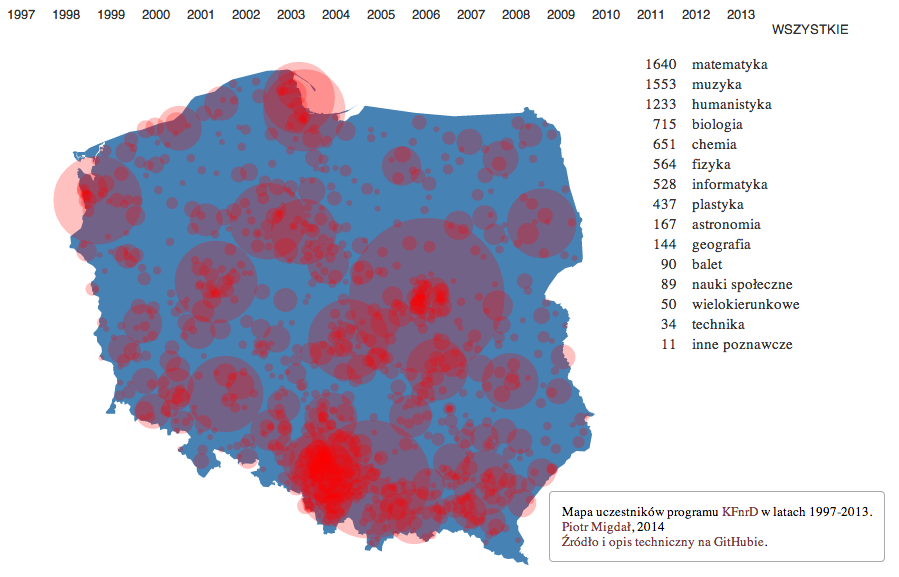
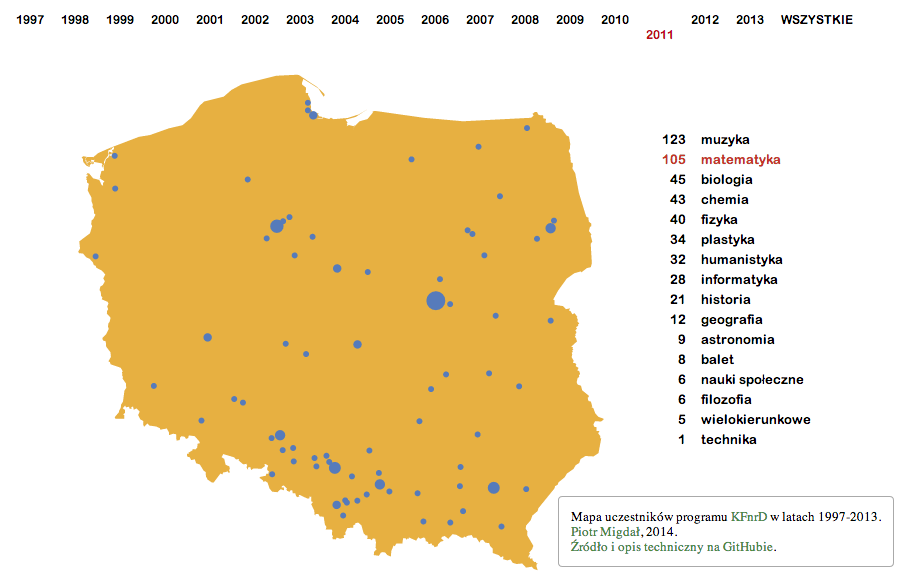
funduszyzacja kolorow i czcionek

diff --git a/mapa.css b/mapa.css
@@ -1,37 +1,40 @@
 .polska {
-  fill: steelblue;
+  fill: #E7B041;
 }
 
 .city {
   /*cursor: crosshair;*/
-  fill: rgba(255, 0, 0, 0.5);
+  fill: #567BBB;
   stroke: rgba(0, 0, 0, 1);
   stroke-width: 0px;
   opacity: 0.4;
 }
 
 .city:hover {
-  stroke-width: 1px;
+  /*stroke-width: 2px;*/
+  fill: #C20D19;
 }
 
 .dziedzina {
   font-family: "Arial Rounded MT Bold", "Helvetica Rounded", Arial, sans-serif;
   font-size: 13px;
-  fill: #333;
+  fill: #000;
   cursor: default;
 }
 
 .dziedzina:hover {
-  fill: #000;
-  stroke: #000;
-  stroke-width: 0.7px;
+  fill: #C63628;
 }
 
 .rok {
-  fill: #333;
-  font-size: 13px;
+  fill: #000;
+  font-size: 12px;
   font-family: "Arial Rounded MT Bold", "Helvetica Rounded", Arial, sans-serif;
   cursor: default;
+}
+
+.rok.selected {
+  fill: #C20D19;
 }
 
 #stopka {
@@ -49,6 +52,15 @@
   cursor: default;
 }
 
-a:link { color:#33a; text-decoration: none; }
-a:visited { color:#833; text-decoration: none; }
-a:hover { color:#aaa; text-decoration: none; }
+a:link {
+ color: #4C8C3F;
+ text-decoration: none;
+}
+a:visited {
+ color: #4C8C3F;
+ text-decoration: none;
+}
+a:hover {
+ color: #C20D19;
+ text-decoration: none;
+}

diff --git a/mapa.js b/mapa.js
@@ -130,7 +130,10 @@ function zacznij_wizualizajce (poland_data, people_data) {
               lata
                 .attr("y", function (c) {
                   return c == d ? 65 : 50;
-                });
+                })
+                .classed("selected", function (c) {
+                  return c == d;
+                })
               if (d === "WSZYSTKIE") 
                 odswiez_rok(people_data);
               else
